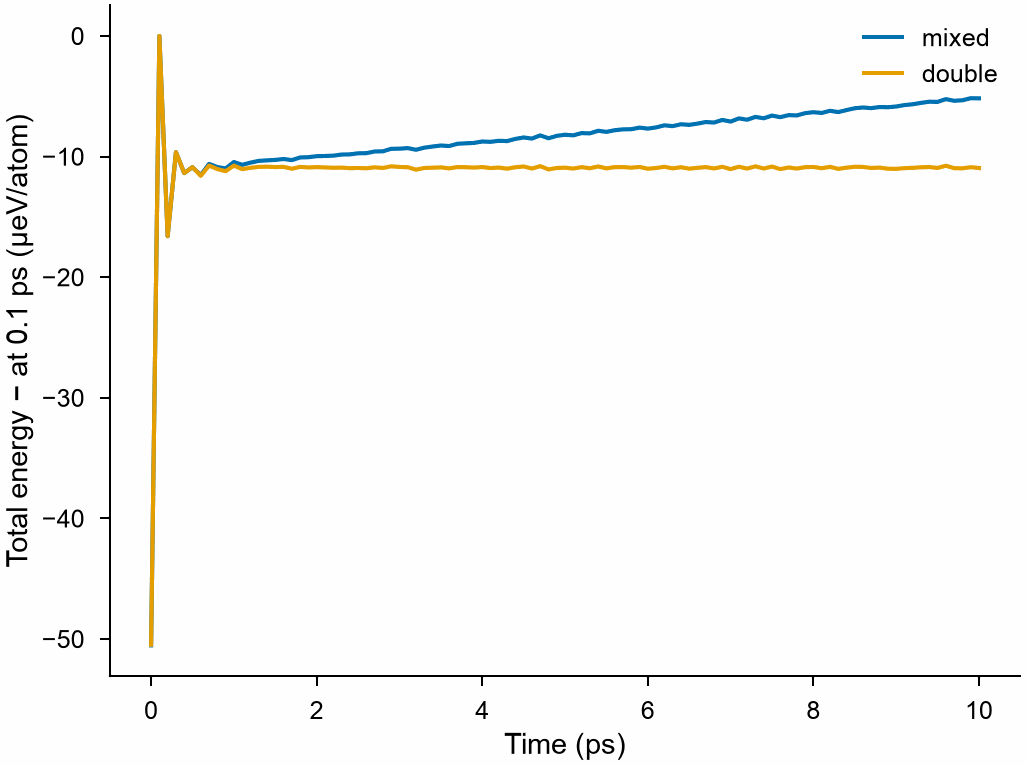
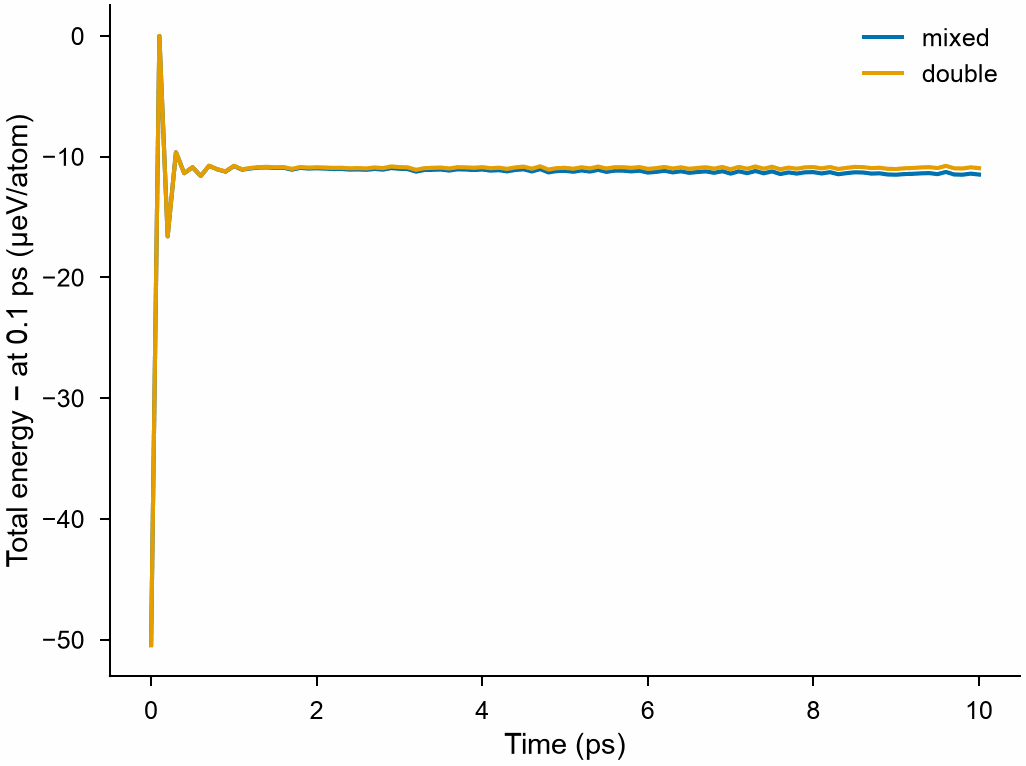
The benchmark of molecular dynamics on one GPU against LAMMPS, its page and picture; the precision of the GPU measured for every potential, and the energy at constant energy drawn again

diff --git a/docs/performance/gpu.md b/docs/performance/gpu.md
@@ -1,0 +1,76 @@
+# Molecular dynamics on the GPU
+
+MDAPY and LAMMPS run the same molecular dynamics at constant energy on one NVIDIA GPU:
+copper with the EAM potential of Zhou et al. and argon with Lennard-Jones, from 16 000
+to 2 million atoms, MDAPY with its [potentials on the GPU](../user-guide/simulation/gpu.md)
+and LAMMPS with its KOKKOS package, in mixed and in double precision, and with its GPU
+package in mixed precision.
+
+## Results
+
+A workstation: an NVIDIA RTX A2000 12GB (Ampere, driver 580.196), an Intel Core
+i5-12600K, Ubuntu 24.04. CUDA 13.5 and GCC 13.3; MDAPY 2.2.0 in development, built with
+`-Ccmake.define.MDAPY_CUDA=ON`; LAMMPS stable_30Sep2026 with KOKKOS for this GPU
+(`Kokkos_ARCH_AMPERE86`), once with `KOKKOS_PREC=mixed` and once in double precision,
+and with the GPU package (`GPU_PREC=mixed`, `GPU_ARCH=sm_86`).
+
+![Atom-steps per second of MDAPY and LAMMPS on one GPU against the number of atoms](images/gpu.png)
+
+*How many atom-steps each runs in a second: higher is faster. Solid lines in mixed
+precision, dashed in double; for KOKKOS the faster of its two neighbor lists at each size.*
+
+### What they show
+
+- **Mixed precision**: MDAPY is the fastest at every size, 1.1 to 1.6 times faster than
+  KOKKOS for copper and 1.3 to 1.4 times for argon, and 1.5 to 2.8 times faster than
+  the GPU package, which moves the atoms on the processor and copies them to the GPU
+  at every step.
+- **Double precision**: MDAPY is about as fast as KOKKOS for the smaller systems and
+  1.15 to 1.35 times slower for the largest. This GPU computes in double precision a
+  small part as fast as in single.
+
+### Times
+
+The time of a step in ms; for KOKKOS the faster of its two neighbor lists.
+
+#### Copper, EAM of Zhou et al.
+
+| Atoms | MDAPY, mixed | KOKKOS, mixed | GPU package, mixed | MDAPY, double | KOKKOS, double |
+|---:|---:|---:|---:|---:|---:|
+| 32,000 | 0.63 | 1.03 | 1.34 | 3.78 | 4.40 |
+| 256,000 | 4.28 | 6.17 | 10.22 | 23.24 | 21.03 |
+| 864,000 | 16.73 | 18.86 | 35.56 | 92.70 | 68.30 |
+| 2,048,000 | 41.49 | 45.01 | 84.12 | 234.88 | 173.87 |
+
+#### Argon, Lennard-Jones cut at 8.5 Å
+
+| Atoms | MDAPY, mixed | KOKKOS, mixed | GPU package, mixed | MDAPY, double | KOKKOS, double |
+|---:|---:|---:|---:|---:|---:|
+| 16,384 | 0.30 | 0.39 | 0.44 | 0.78 | 0.78 |
+| 131,072 | 1.85 | 2.44 | 3.53 | 4.74 | 4.41 |
+| 442,368 | 5.22 | 6.96 | 13.06 | 13.12 | 11.85 |
+| 1,048,576 | 11.40 | 15.48 | 31.41 | 30.74 | 26.72 |
+
+## How it was measured
+
+- Each run builds the fcc crystal, gives it the velocities of 600 K (copper, time step
+  2 fs) or 60 K (argon, 5 fs), runs 50 steps at constant energy and times the next
+  300, with a skin of 1 Å and the neighbor list checked at every step.
+- LAMMPS reports the time of its loop. The time of MDAPY is that of `run`, which also
+  computes the forces and records the state at its start and its end.
+- KOKKOS ran with full neighbor lists and Newton's third law off, its default on GPUs,
+  and with half lists and the law on; the faster counts. The half lists were faster but
+  for the smallest systems.
+- This GPU slows down as it warms: each run started after 45 s of rest.
+
+## Running it
+
+The comparison is `benchmarks/gpu.py` in the source repository. It runs the LAMMPS
+executables that the environment variables name and leaves out those not given.
+
+```bash
+LMP_KOKKOS_MIXED=/path/to/kokkos-mixed/lmp LMP_KOKKOS_DOUBLE=/path/to/kokkos/lmp \
+    LMP_GPU=/path/to/gpu/lmp python benchmarks/gpu.py run --rest 45 --output gpu.json
+python benchmarks/gpu.py table gpu.json
+python benchmarks/gpu.py plot gpu.json gpu.png
+```

diff --git a/docs/user-guide/simulation/gpu.md b/docs/user-guide/simulation/gpu.md
@@ -58,7 +58,7 @@ with plot.style():
 value at 0.1 ps. In the first picosecond, alike in both precisions, it is the error of
 the time step of 2 fs, as the atoms leave the perfect crystal, where no force acts.
 After it, double precision keeps the energy to 0.2 µeV per atom, and mixed precision
-lets it drift by about 0.6 µeV per atom per ps; a thermostat takes that out.*
+lets it drift by less than 0.1 µeV per atom per ps.*
 
 ## Building the GPU part
 
@@ -96,10 +96,16 @@ a neighbor list given to it is not used. Every calculator has `device` and `prec
 
 | | Mixed | Double |
 |---|---|---|
-| Forces, atom by atom | within about 1e-5 of the largest force | those of the processor to rounding, 1e-14 |
-| Energies | within about 1e-5 of the energy of each atom | to rounding |
-| Total virial | within about 1e-4 of its largest component | to rounding |
+| Forces, atom by atom | within about 1e-6 of the largest force, 4e-6 for Tersoff | those of the processor to rounding, 1e-14 |
+| Energies | of each atom within about 1e-6 of the largest, the total within 1e-6 | to rounding |
+| Total virial | within about 1e-6 of its largest component | to rounding |
 | Molecular dynamics | the same runs as long as rounding allows | the runs of the processor, step by step, in every ensemble |
+
+Single precision holds the position of each atom from the corner of its cell of the
+neighbor list, a few Å, so that these hold whatever the size of the box. A pair within
+its rounding, some 1e-6 Å, of the cutoff of a potential whose energy does not go to zero
+there, such as `LennardJones` and `Morse` without `shift`, may count on one side on the
+GPU and on the other on the processor.
 
 In double precision a consumer GPU computes much slower than in single, a part of
 its speed in single precision. Langevin dynamics draws its random forces on the GPU:
